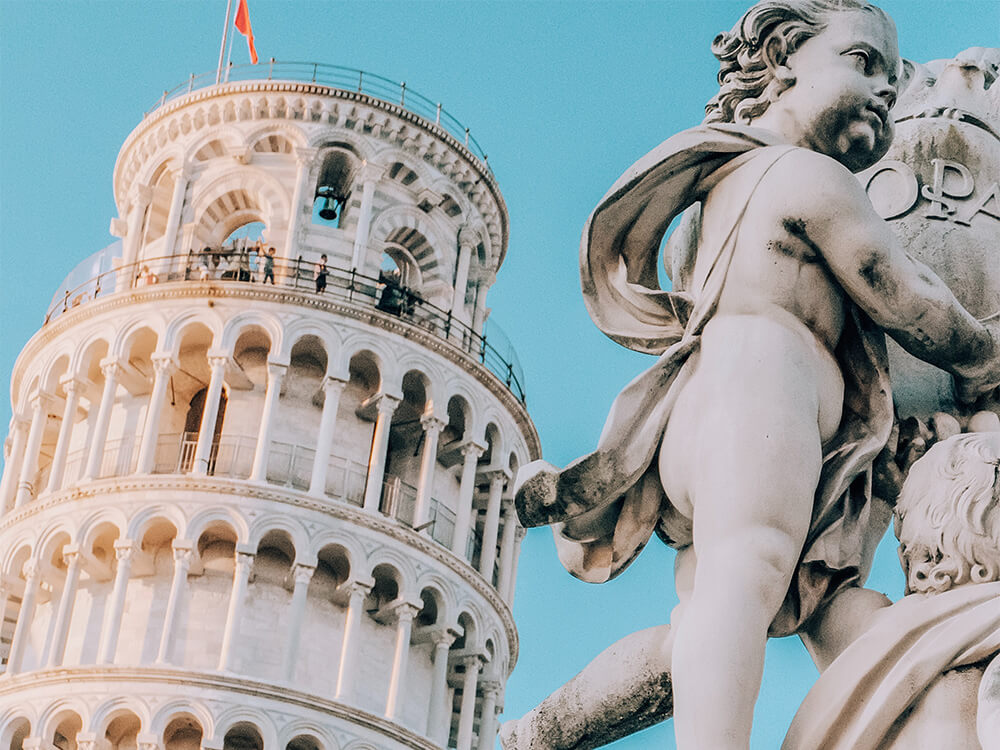
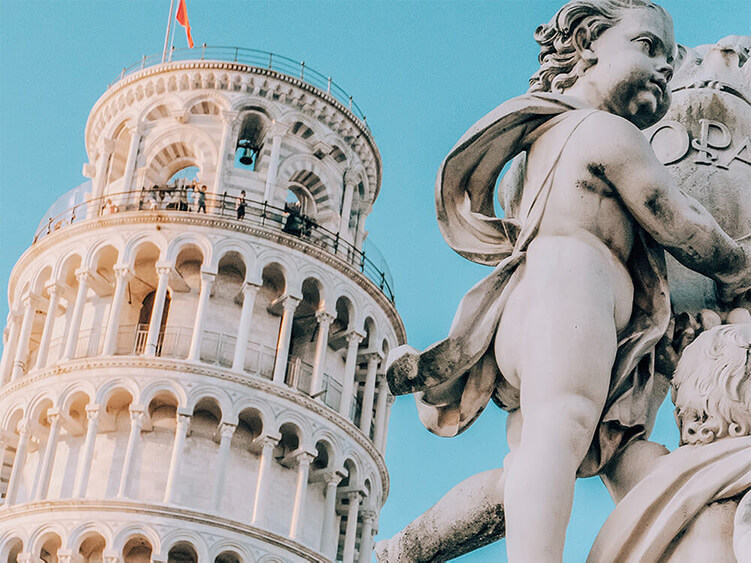
corrette le immagini che erano troppo grandi

diff --git a/js/main.js b/js/main.js
@@ -20,14 +20,12 @@ function topFunction() {
 	});
 }
 
-// pagine dei corsi: setta l'altezza dell'immagine copertina uguale a quella del testo a sinistra + 60 margine,
-// inoltre posiziona correttamente il bg destro, escluso su mobile
+// pagine dei corsi: setta l'altezza dell'immagine copertina uguale a quella del testo a sinistra + 60 margine
 
 if ($(window).width() > 800) {
 
 	var divHeight = $('.corso-top_left p').height() + $('.corso-top_left h1').height();
-	$('.corso-img').height(divHeight + 60);
-		
+	$('.corso-img').height(divHeight + 64);	
 }
 
 // tutte le pagine (o quasi): prende l'altezza del testo in copertina e lo usa per dare l'altezza e la posizione delle barre
@@ -37,8 +35,8 @@ if ($(window).width() > 800) {
 
 var topHeight = $('#top-copy').height();
 
-	$('#bg-img').height( topHeight * .75 + ($(window).height() / 24 ) ); //posiziona il bg in base all'altezza dell'immagine e della viewport
-	$('#bg-img').css({ 'top': topHeight * .28 + ($(window).height() / 20 )}); 
+	$('#bg-img').height( topHeight * .75 + ($(window).height() / 30 ) ); //posiziona il bg in base all'altezza dell'immagine e della viewport
+	$('#bg-img').css({ 'top': topHeight * .35 + ($(window).height() / 40 )}); 
 	$('#alt-top-bg').height( topHeight * .25 + 90 );
 
 }

diff --git a/css/main.css b/css/main.css
@@ -263,7 +263,7 @@ header {
     font-weight: 300;
     text-align: center;
 
-    transition: all 0.4s ease;
+    transition: all 0.3s ease;
     transition-property: height, background-color, font-size;
 }
 
@@ -271,7 +271,7 @@ nav .main-logo {
     width: 24rem;
     margin: 0 auto;
 
-    transition: all 0.1s ease;
+    transition: all 0.15s ease;
     transition-property: width;
 }
 
@@ -1373,7 +1373,7 @@ footer p {
 
 .cont-img {
     object-position: center;
-    max-height: 28rem;
+    max-height: 29rem;
 }
 
 .contatti-scrivici {
@@ -1528,7 +1528,7 @@ footer p {
 }
 
 .corso-top_left {
-    padding: 1rem 6rem 2rem 0;
+    padding: 2rem 6rem 2rem 0;
 }
 
 .corso-top_left h1 {
@@ -1925,7 +1925,7 @@ footer p {
         width: 100rem;
     }
     .contatti-topbg_right {
-        width: 24rem;
+        width: 42rem;
     }
 }
 
